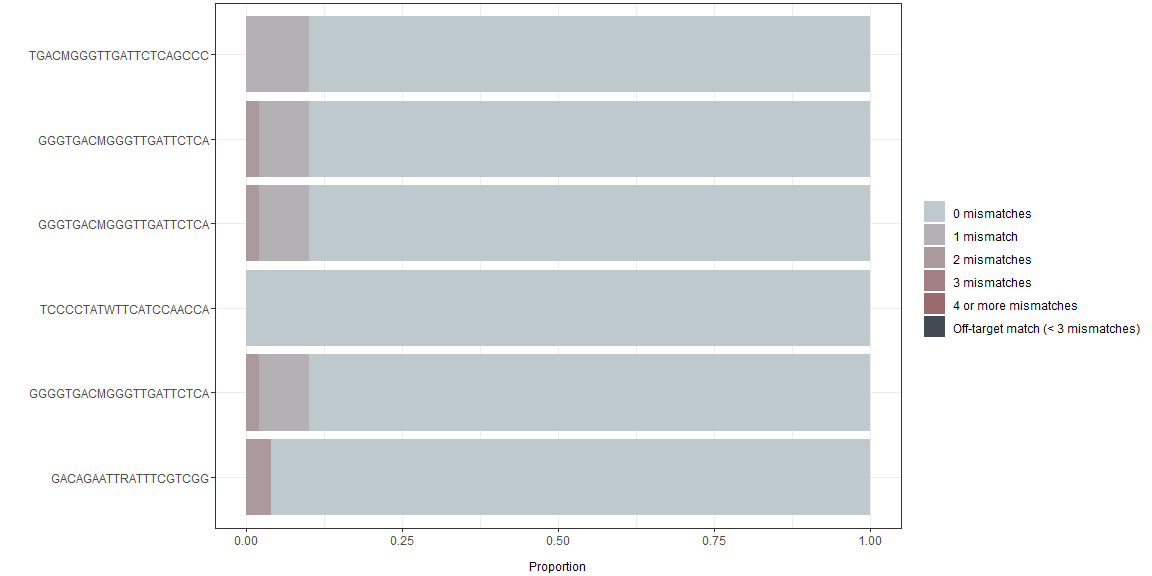
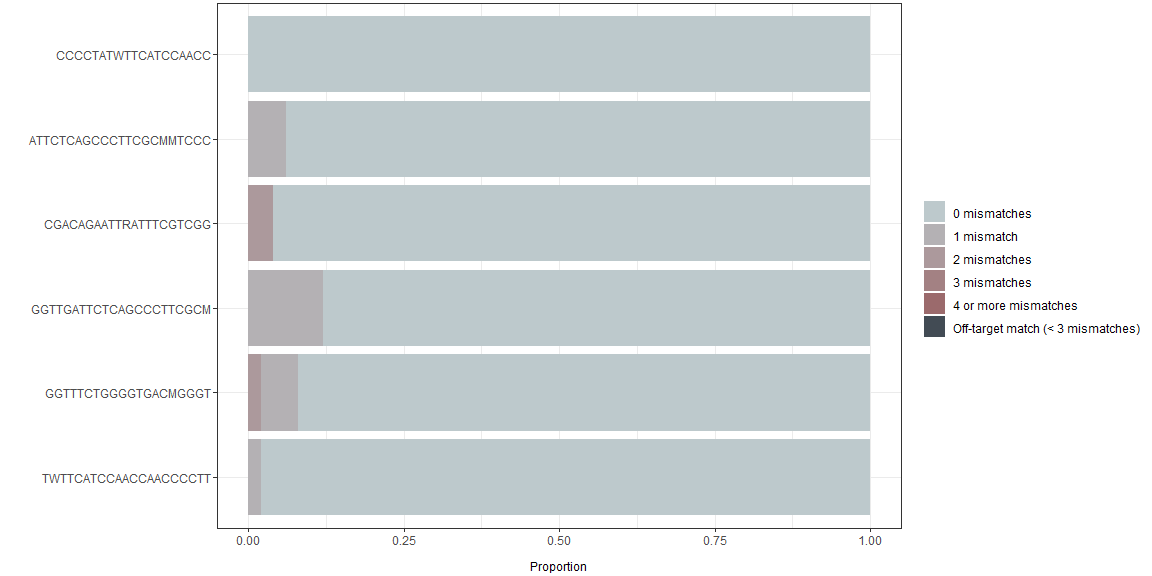
updated consensusProfile

diff --git a/README.md b/README.md
@@ -74,19 +74,19 @@ myConsensusProfile <- consensusProfile(myAlignment, ambiguityThreshold = 0.05)
 
 Results (row 100-110):
 
-| position |    a |    c |    g |    t | other | gaps | majority | identity | iupac | entropy | coverage |
-|---------:|-----:|-----:|-----:|-----:|------:|-----:|:---------|---------:|:------|--------:|---------:|
-|      100 | 0.00 | 1.00 | 0.00 | 0.00 |  0.00 |    0 | C        |     1.00 | C     |    0.00 |     1.00 |
-|      101 | 1.00 | 0.00 | 0.00 | 0.00 |  0.00 |    0 | A        |     1.00 | A     |    0.00 |     1.00 |
-|      102 | 0.16 | 0.00 | 0.84 | 0.00 |  0.00 |    0 | G        |     0.84 | R     |    0.63 |     1.00 |
-|      103 | 0.00 | 0.00 | 1.00 | 0.00 |  0.00 |    0 | G        |     1.00 | G     |    0.00 |     1.00 |
-|      104 | 0.00 | 0.98 | 0.00 | 0.00 |  0.02 |    0 | C        |     1.00 | C     |    0.00 |     1.00 |
-|      105 | 0.20 | 0.00 | 0.02 | 0.78 |  0.00 |    0 | T        |     0.78 | W     |    0.86 |     0.98 |
-|      106 | 0.00 | 0.00 | 1.00 | 0.00 |  0.00 |    0 | G        |     1.00 | G     |    0.00 |     1.00 |
-|      107 | 0.00 | 0.98 | 0.00 | 0.02 |  0.00 |    0 | C        |     0.98 | C     |    0.14 |     0.98 |
-|      108 | 0.00 | 0.00 | 0.02 | 0.98 |  0.00 |    0 | T        |     0.98 | T     |    0.14 |     0.98 |
-|      109 | 0.00 | 0.98 | 0.00 | 0.02 |  0.00 |    0 | C        |     0.98 | C     |    0.14 |     0.98 |
-|      110 | 0.00 | 0.00 | 0.00 | 1.00 |  0.00 |    0 | T        |     1.00 | T     |    0.00 |     1.00 |
+| position |    a |    c |    g |    t | other | gaps | majority | identity | iupac | coverage |
+|---------:|-----:|-----:|-----:|-----:|------:|-----:|:---------|---------:|:------|---------:|
+|      100 | 0.00 | 1.00 | 0.00 | 0.00 |  0.00 |    0 | C        |     1.00 | C     |     1.00 |
+|      101 | 1.00 | 0.00 | 0.00 | 0.00 |  0.00 |    0 | A        |     1.00 | A     |     1.00 |
+|      102 | 0.16 | 0.00 | 0.84 | 0.00 |  0.00 |    0 | G        |     0.84 | R     |     1.00 |
+|      103 | 0.00 | 0.00 | 1.00 | 0.00 |  0.00 |    0 | G        |     1.00 | G     |     1.00 |
+|      104 | 0.00 | 0.98 | 0.00 | 0.00 |  0.02 |    0 | C        |     1.00 | C     |     1.00 |
+|      105 | 0.20 | 0.00 | 0.02 | 0.78 |  0.00 |    0 | T        |     0.78 | W     |     0.98 |
+|      106 | 0.00 | 0.00 | 1.00 | 0.00 |  0.00 |    0 | G        |     1.00 | G     |     1.00 |
+|      107 | 0.00 | 0.98 | 0.00 | 0.02 |  0.00 |    0 | C        |     0.98 | C     |     0.98 |
+|      108 | 0.00 | 0.00 | 0.02 | 0.98 |  0.00 |    0 | T        |     0.98 | T     |     0.98 |
+|      109 | 0.00 | 0.98 | 0.00 | 0.02 |  0.00 |    0 | C        |     0.98 | C     |     0.98 |
+|      110 | 0.00 | 0.00 | 0.00 | 1.00 |  0.00 |    0 | T        |     1.00 | T     |     1.00 |
 
 The results can be visualized with `plotData()`:
 
@@ -172,12 +172,12 @@ Results:
 
 | iupacSequence          | perfectMatch | idPerfectMatch | oneMismatch | idOneMismatch | twoMismatches | idTwoMismatches | threeMismatches | idThreeMismatches | fourOrMoreMismatches | idFourOrMoreMismatches | offTargetMatch | idOffTargetMatch |
 |:-----------------------|-------------:|:---------------|------------:|:--------------|--------------:|:----------------|----------------:|:------------------|---------------------:|:-----------------------|---------------:|:-----------------|
-| TGACMGGGTTGATTCTCAGCCC |         0.90 | AB073912….     |        0.10 | AB481228….    |          0.00 |                 |               0 |                   |                    0 |                        |              0 |                  |
-| GGGTGACMGGGTTGATTCTCA  |         0.90 | AB073912….     |        0.08 | BD378055….    |          0.02 | JQ953665.1      |               0 |                   |                    0 |                        |              0 |                  |
-| GGGTGACMGGGTTGATTCTCA  |         0.90 | AB073912….     |        0.08 | BD378055….    |          0.02 | JQ953665.1      |               0 |                   |                    0 |                        |              0 |                  |
-| TCCCCTATWTTCATCCAACCA  |         1.00 | AB073912….     |        0.00 |               |          0.00 |                 |               0 |                   |                    0 |                        |              0 |                  |
-| GGGGTGACMGGGTTGATTCTCA |         0.90 | AB073912….     |        0.08 | BD378055….    |          0.02 | JQ953665.1      |               0 |                   |                    0 |                        |              0 |                  |
-| GACAGAATTRATTTCGTCGG   |         0.96 | AB073912….     |        0.00 |               |          0.04 | MH410175….      |               0 |                   |                    0 |                        |              0 |                  |
+| CCCCTATWTTCATCCAACC    |         1.00 | AB073912….     |        0.00 |               |          0.00 |                 |               0 |                   |                    0 |                        |              0 |                  |
+| ATTCTCAGCCCTTCGCMMTCCC |         0.94 | AB073912….     |        0.06 | AB481228….    |          0.00 |                 |               0 |                   |                    0 |                        |              0 |                  |
+| CGACAGAATTRATTTCGTCGG  |         0.96 | AB073912….     |        0.00 |               |          0.04 | MH410175….      |               0 |                   |                    0 |                        |              0 |                  |
+| GGTTGATTCTCAGCCCTTCGCM |         0.88 | AB073912….     |        0.12 | AB481228….    |          0.00 |                 |               0 |                   |                    0 |                        |              0 |                  |
+| GGTTTCTGGGGTGACMGGGT   |         0.92 | AB073912….     |        0.06 | BD378055….    |          0.02 | JQ953665.1      |               0 |                   |                    0 |                        |              0 |                  |
+| TWTTCATCCAACCAACCCCTT  |         0.98 | AB073912….     |        0.02 | HM439284.1    |          0.00 |                 |               0 |                   |                    0 |                        |              0 |                  |
 
 The match table can be visualized using `plotData()`:
 
